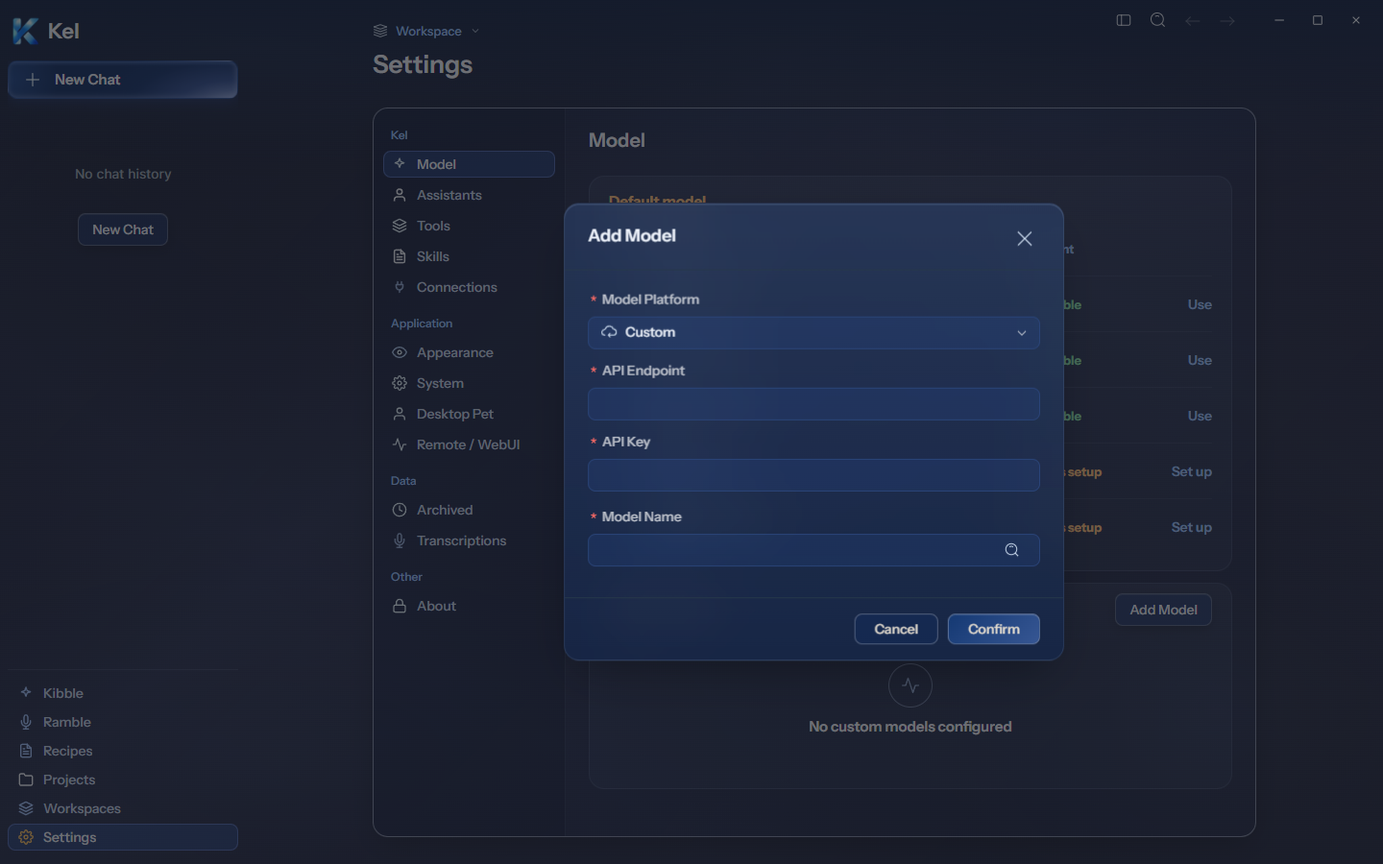
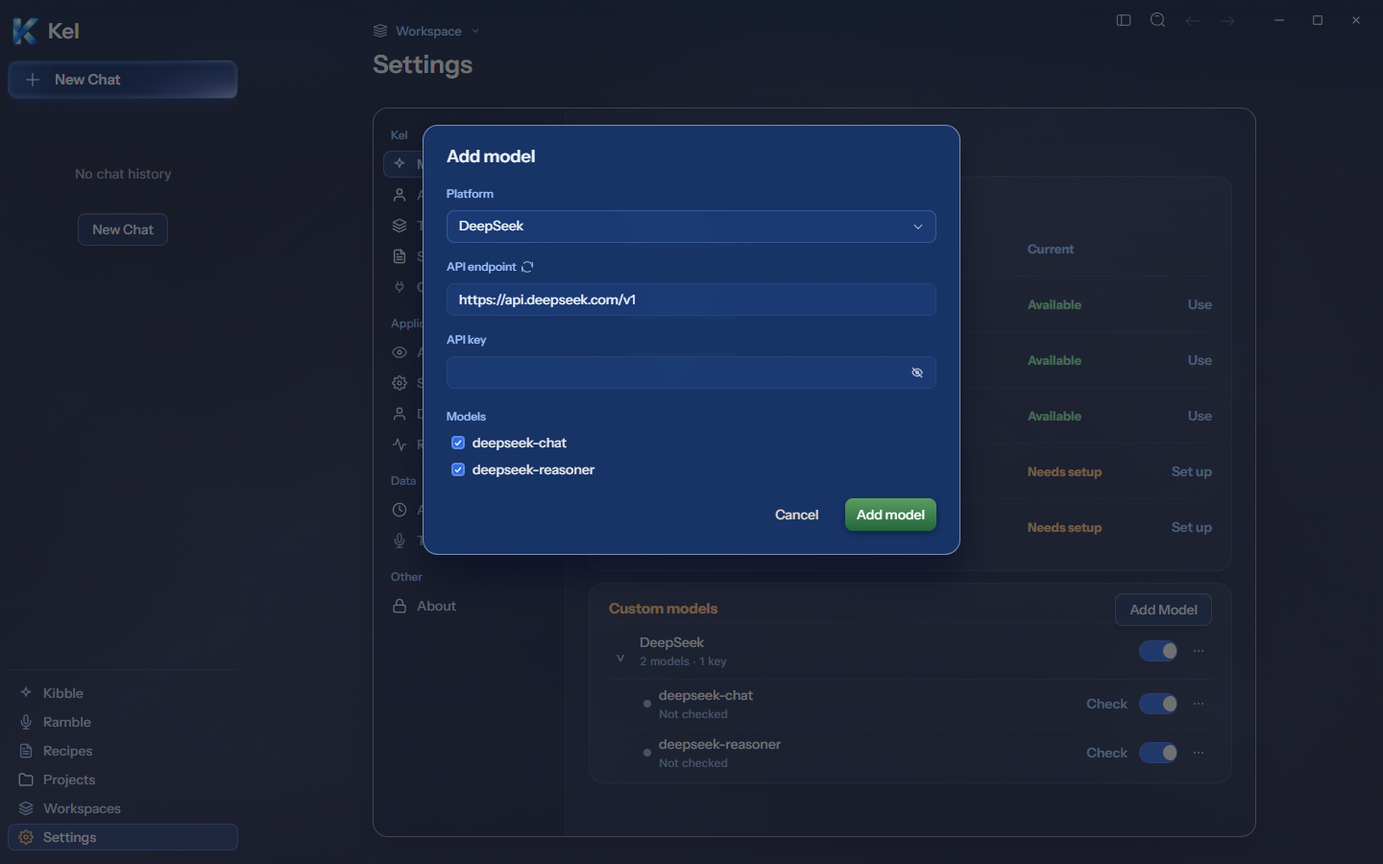
Implement desktop Model add flow and populated rows

Changed region(s): [[0.2812, 0.1244, 0.7812, 0.9022], [0.7812, 0.7467, 0.875, 0.9022], [0.5938, 0.84, 0.7188, 0.8711]]

diff --git a/desktop/packages/desktop/src/renderer/styles/kel-shell.css b/desktop/packages/desktop/src/renderer/styles/kel-shell.css
@@ -725,6 +725,32 @@ html[data-theme='dark'] body .arco-modal.kel-shell-model-modal { box-sizing: bor
 html[data-theme='dark'] .kel-shell-model-modal :is(.arco-input-wrapper,.arco-select-view) { background: rgba(47,107,224,.1) !important; border: 1px solid rgba(127,160,255,.28) !important; }
 html[data-theme='dark'] .kel-shell-model-modal .arco-input { background: transparent !important; }
 @media(min-width:1024px) { .arco-modal-wrapper:has(.kel-shell-model-modal) { box-sizing: border-box; padding-left: 256px; } }
+@media (min-width: 768px) {
+  .arco-modal-wrapper:has(.kel-shell-model-modal--source) { padding-left: 0; padding-top: 130px; }
+  .arco-modal-wrapper:has(.kel-shell-model-modal--source)::before,
+  .arco-modal-wrapper:has(.kel-shell-model-modal--source)::after { display: none; }
+  html[data-theme='dark'] body .arco-modal.kel-shell-model-modal--source {
+    width: 560px !important; max-width: calc(100vw - 32px);
+    border: 1px solid rgba(221,233,255,.5);
+    background: linear-gradient(rgba(159,195,255,.05),rgba(159,195,255,.05)),rgba(15,45,100,.9) !important;
+    box-shadow: 0 24px 32px rgba(5,13,36,.55);
+  }
+  .kel-shell-model-modal--source .aionui-modal-std-header { padding: 20px 24px 0; border-bottom: 0 !important; }
+  .kel-shell-model-modal--source .aionui-modal-std-header h3 { font: 600 18px/24px var(--kel-shell-heading); }
+  .kel-shell-model-modal--source .aionui-modal-std-body { padding: 16px 24px 0 !important; overflow: visible; }
+  .kel-shell-model-modal--source .arco-form-item { margin-bottom: 14px !important; }
+  .kel-shell-model-modal--source .arco-form-item-symbol { display: none; }
+  .kel-shell-model-modal--source .arco-form-label-item,
+  .kel-shell-model-modal--source .arco-form-label-item label { color: #9fc3ff; font: 500 12px/16px var(--kel-shell-heading); }
+  .kel-shell-model-modal--source .arco-checkbox-group { display: flex; flex-direction: column; align-items: flex-start; gap: 2px; }
+  .kel-shell-model-modal--source .arco-checkbox { min-height: 26px; color: #edf2fa; font: 500 14px/20px var(--kel-shell-heading); }
+  .kel-shell-model-modal--source .arco-checkbox-mask { border-radius: 4px; }
+  .kel-shell-model-modal--source .arco-checkbox-checked .arco-checkbox-mask { border-color: rgba(191,216,255,.3); background: #2f6be0; }
+  .kel-shell-model-modal--source .aionui-modal-std-footer { padding: 0 24px 24px; border-top: 0 !important; }
+  .kel-shell-model-modal--source .aionui-modal-std-footer > div { display: flex; justify-content: flex-end; gap: 10px; }
+  .kel-shell-model-modal--source .aionui-modal-std-footer .arco-btn { height: 34px; padding-inline: 12px; border: 0; background: transparent; box-shadow: none; }
+  .kel-shell-model-modal--source .aionui-modal-std-footer .arco-btn-primary { background: linear-gradient(#5a9d61,#24653d); color: #fff; box-shadow: 0 2px 8px rgba(5,13,36,.5); }
+}
 
 /* Typography authority: DS v2 Foundations / Type v2, confirmed by the user. */
 .kel-v2-shell { font: 400 16px/25px var(--kel-shell-body); }
@@ -1365,6 +1391,31 @@ html body .kel-v2-shell .kel-shell-chat-composer .sendbox-panel :is(.sendbox-mod
 .kel-v2-shell .kel-in-chat-frame__pane .kel-shell-custom-models .kel-shell-model-actions { position: absolute; right: 20px; top: 10px; }
 .kel-v2-shell .kel-in-chat-frame__pane .kel-shell-custom-models .py-40px { min-height: 150px; padding: 0; align-items: center; justify-content: center; }
 .kel-v2-shell .kel-in-chat-frame__pane .kel-shell-custom-models .py-40px h3 { font: 600 15px/20px var(--kel-shell-heading); color: var(--kel-text-1); }
+@media (min-width: 768px) {
+  .kel-v2-shell .kel-in-chat-frame__pane .kel-shell-custom-models:has(.kel-shell-model-provider) { gap: 4px; min-height: 0; padding-bottom: 6px; }
+  .kel-v2-shell .kel-shell-model-provider { border-top: 1px solid rgba(191,216,255,.08); }
+  .kel-v2-shell .kel-shell-model-provider-row,
+  .kel-v2-shell .kel-shell-model-entry-row { display: flex; align-items: center; gap: 8px; min-width: 0; border-bottom: 1px solid rgba(191,216,255,.08); }
+  .kel-v2-shell .kel-shell-model-provider-row { min-height: 58px; }
+  .kel-v2-shell .kel-shell-model-entry-row { min-height: 50px; padding-left: 36px; }
+  .kel-v2-shell .kel-shell-model-entry-row:last-child { border-bottom: 0; }
+  .kel-v2-shell .kel-shell-model-provider-expand { flex: 0 0 24px; padding: 0; border: 0; background: transparent; color: #9fc3ff; font: 500 20px/24px var(--kel-shell-heading); cursor: pointer; }
+  .kel-v2-shell .kel-shell-model-provider-label { display: flex; flex: 1; flex-direction: column; min-width: 0; gap: 2px; color: #edf2fa; font: 500 14px/20px var(--kel-shell-heading); }
+  .kel-v2-shell .kel-shell-model-provider-label > span { overflow: hidden; text-overflow: ellipsis; white-space: nowrap; }
+  .kel-v2-shell .kel-shell-model-provider-label small { overflow: hidden; color: #8fa9d6; font: 400 12px/16px var(--kel-shell-body); text-overflow: ellipsis; white-space: nowrap; }
+  .kel-v2-shell .kel-shell-model-health-dot { flex: 0 0 8px; width: 8px; height: 8px; border-radius: 50%; background: #8fa9d6; }
+  .kel-v2-shell .kel-shell-model-health-dot--healthy { background: #8fe3b4; }
+  .kel-v2-shell .kel-shell-model-health-dot--unhealthy { background: #f27d7d; }
+  .kel-v2-shell .kel-shell-model-check { flex: 0 0 auto; padding: 4px; border: 0; background: transparent; color: #9fc3ff; font: 600 14px/20px var(--kel-shell-heading); cursor: pointer; }
+  .kel-v2-shell .kel-shell-model-check:disabled { opacity: .5; cursor: wait; }
+  .kel-v2-shell .kel-shell-model-more { position: relative; flex: 0 0 28px; }
+  .kel-v2-shell .kel-shell-model-more summary { display: flex; align-items: center; justify-content: center; width: 28px; height: 28px; list-style: none; color: #9fc3ff; cursor: pointer; }
+  .kel-v2-shell .kel-shell-model-more summary::-webkit-details-marker { display: none; }
+  .kel-v2-shell .kel-shell-model-menu { position: absolute; z-index: 10; top: 30px; right: 0; display: flex; flex-direction: column; min-width: 140px; padding: 5px; border: 1px solid rgba(191,216,255,.22); border-radius: 8px; background: #172b56; box-shadow: 0 8px 20px rgba(5,13,36,.5); }
+  .kel-v2-shell .kel-shell-model-menu button { width: 100%; padding: 7px 9px; border: 0; border-radius: 5px; background: transparent; color: #edf2fa; text-align: left; font: 500 13px/18px var(--kel-shell-heading); cursor: pointer; }
+  .kel-v2-shell .kel-shell-model-menu button:hover { background: rgba(47,107,224,.18); }
+  .kel-v2-shell .kel-shell-model-provider .arco-switch { flex: 0 0 40px; width: 40px; height: 22px; }
+}
 .kel-v2-shell .kel-shell-model-empty-icon, .kel-v2-shell .kel-shell-archived-empty-icon { display: flex; align-items: center; justify-content: center; width: 44px; height: 44px; margin-bottom: 10px; border: 1px solid rgba(191,216,255,.45); border-radius: 50%; color: var(--kel-text-2); }
 .kel-v2-shell .kel-shell-archived-empty-icon img { width: 20px; height: 20px; }
 .kel-v2-shell .kel-in-chat-frame__pane .kel-shell-archive-actions:empty { display: none; }

diff --git a/desktop/packages/desktop/src/renderer/pages/settings/components/AddPlatformModal.tsx b/desktop/packages/desktop/src/renderer/pages/settings/components/AddPlatformModal.tsx
@@ -10,7 +10,7 @@ import { ipcBridge } from '@/common';
 import { uuid } from '@/common/utils';
 import { isGoogleApisHost } from '@/common/utils/urlValidation';
 import ModalHOC from '@/renderer/utils/ui/ModalHOC';
-import { Form, Input, Message, Select, Switch } from '@arco-design/web-react';
+import { Checkbox, Form, Input, Message, Select, Switch } from '@arco-design/web-react';
 import { Loading, PreviewOpen, Refresh, Search } from '@icon-park/react';
 import React, { useEffect, useMemo, useState } from 'react';
 import { useTranslation } from 'react-i18next';
@@ -204,7 +204,8 @@ const renderPlatformOption = (platform: PlatformConfig, t?: (key: string) => str
 const AddPlatformModal = ModalHOC<{
   onSubmit: (platform: IProvider) => void;
   deepLinkData?: DeepLinkAddProviderDetail;
-}>(({ modalProps, onSubmit, modalCtrl, deepLinkData }) => {
+  desktopSource?: boolean;
+}>(({ modalProps, onSubmit, modalCtrl, deepLinkData, desktopSource = false }) => {
   const [message, messageContext] = Message.useMessage();
   const { t } = useTranslation();
   const [form] = Form.useForm();
@@ -318,7 +319,12 @@ const AddPlatformModal = ModalHOC<{
         if (deepLinkData.base_url) form.setFieldValue('base_url', deepLinkData.base_url);
         if (deepLinkData.api_key) form.setFieldValue('api_key', deepLinkData.api_key);
       } else {
-        form.setFieldValue('platform', DEFAULT_PLATFORM_VALUE);
+        const initialPlatform = desktopSource ? 'DeepSeek' : DEFAULT_PLATFORM_VALUE;
+        form.setFieldValue('platform', initialPlatform);
+        if (desktopSource) {
+          form.setFieldValue('base_url', getPlatformByValue(initialPlatform)?.base_url ?? '');
+          form.setFieldValue('model', ['deepseek-chat', 'deepseek-reasoner']);
+        }
       }
     }
   }, [modalProps.visible, deepLinkData]);
@@ -403,16 +409,16 @@ const AddPlatformModal = ModalHOC<{
 
   return (
     <AionModal
-      className='kel-shell-model-modal'
+      className={`kel-shell-model-modal${desktopSource ? ' kel-shell-model-modal--source' : ''}`}
       contentStyle={{ background: 'transparent' }}
       variant='standard'
       visible={modalProps.visible}
       onCancel={modalCtrl.close}
-      header={{ title: t('settings.addModel'), showClose: true }}
-      style={{ width: 520, maxWidth: 'calc(100vw - 32px)' }}
+      header={{ title: desktopSource ? 'Add model' : t('settings.addModel'), showClose: !desktopSource }}
+      style={{ width: desktopSource ? 560 : 520, maxWidth: 'calc(100vw - 32px)' }}
       onOk={handleSubmit}
       confirmLoading={modalProps.confirmLoading}
-      okText={t('common.confirm')}
+      okText={desktopSource ? 'Add model' : t('common.confirm')}
       cancelText={t('common.cancel')}
     >
       {messageContext}
@@ -420,14 +426,14 @@ const AddPlatformModal = ModalHOC<{
         <Form form={form} layout='vertical' className='[&_.arco-form-item]:mb-12px [&_.arco-form-item:last-child]:mb-0'>
           {/* 模型平台选择（第一层）/ Model Platform Selection (first level) */}
           <Form.Item
-            initialValue={DEFAULT_PLATFORM_VALUE}
-            label={t('settings.modelPlatform')}
+            initialValue={desktopSource ? 'DeepSeek' : DEFAULT_PLATFORM_VALUE}
+            label={desktopSource ? 'Platform' : t('settings.modelPlatform')}
             field={'platform'}
             required
             rules={[{ required: true, message: t('settings.modelPlatformRequired', 'Choose a model platform.') }]}
           >
             <Select
-              showSearch
+              showSearch={!desktopSource}
               filterOption={(inputValue, option) => {
                 const optionValue = (option as React.ReactElement<{ value?: string }>)?.props?.value;
                 const plat = MODEL_PLATFORMS.find((p) => p.value === optionValue);
@@ -449,6 +455,7 @@ const AddPlatformModal = ModalHOC<{
                 const optionValue = (option as { value?: string })?.value;
                 const plat = MODEL_PLATFORMS.find((p) => p.value === optionValue);
                 if (!plat) return optionValue;
+                if (desktopSource) return plat.i18nKey ? t(plat.i18nKey) : plat.name;
                 return renderPlatformOption(plat, t);
               }}
             >
@@ -467,7 +474,7 @@ const AddPlatformModal = ModalHOC<{
             hidden={isBedrock}
             label={
               <span className='inline-flex items-center gap-4px'>
-                {t('settings.apiEndpoint', 'API 请求地址')}
+                {desktopSource ? 'API endpoint' : t('settings.apiEndpoint', 'API 请求地址')}
                 {selectedPlatform?.base_url && !isFullUrl && (
                   <button
                     type='button'
@@ -523,7 +530,7 @@ const AddPlatformModal = ModalHOC<{
           {/* API Key */}
           <Form.Item
             hidden={isBedrock}
-            label={t('settings.apiKey')}
+            label={desktopSource ? 'API key' : t('settings.apiKey')}
             required={!isBedrock}
             rules={[{ required: !isBedrock, message: t('settings.apiKeyRequired', 'Enter an API key.') }]}
             field={'api_key'}
@@ -542,7 +549,7 @@ const AddPlatformModal = ModalHOC<{
               </div>
             }
           >
-            <Input
+            <Input.Password visibilityToggle
               onBlur={() => {
                 void modelListState.mutate();
               }}
@@ -622,7 +629,7 @@ const AddPlatformModal = ModalHOC<{
 
           {/* 模型选择 / Model Selection */}
           <Form.Item
-            label={t('settings.modelName')}
+            label={desktopSource && platformValue === 'DeepSeek' ? 'Models' : t('settings.modelName')}
             field={'model'}
             required
             rules={[{ required: true, message: t('settings.modelNameRequired', 'Choose or enter a model name.') }]}
@@ -635,7 +642,13 @@ const AddPlatformModal = ModalHOC<{
                   : undefined
             }
           >
-            <Select
+            {desktopSource && platformValue === 'DeepSeek' ? <Checkbox.Group
+              direction='vertical'
+              options={[
+                { label: 'deepseek-chat', value: 'deepseek-chat' },
+                { label: 'deepseek-reasoner', value: 'deepseek-reasoner' },
+              ]}
+            /> : <Select
               mode='multiple'
               loading={!isFullUrl && modelListState.isLoading}
               showSearch
@@ -715,7 +728,7 @@ const AddPlatformModal = ModalHOC<{
                 )
               }
               options={isFullUrl ? [] : modelListState.data?.models || []}
-            />
+            />}
           </Form.Item>
 
           {/* New API 协议选择 / New API Protocol Selection */}

diff --git a/desktop/packages/desktop/src/renderer/components/settings/SettingsModal/contents/ModelModalContent.tsx b/desktop/packages/desktop/src/renderer/components/settings/SettingsModal/contents/ModelModalContent.tsx
@@ -15,6 +15,7 @@ import {
   Heartbeat,
   Info,
   Minus,
+  More,
   Plus,
   PreviewClose,
   PreviewOpen,
@@ -111,6 +112,12 @@ const ModelModalContent: React.FC = () => {
   const { t, i18n } = useTranslation();
   const viewMode = useSettingsViewMode();
   const isPageMode = viewMode === 'page';
+  const [desktopLayout, setDesktopLayout] = useState(() => typeof window !== 'undefined' && window.innerWidth >= 768);
+  useEffect(() => {
+    const onResize = () => setDesktopLayout(window.innerWidth >= 768);
+    window.addEventListener('resize', onResize);
+    return () => window.removeEventListener('resize', onResize);
+  }, []);
   const [collapseKey, setCollapseKey] = useState<Record<string, boolean>>({});
   const [healthCheckLoading, setHealthCheckLoading] = useState<Record<string, boolean>>({});
   const { data, mutate } = useProvidersQuery();
@@ -170,6 +177,26 @@ const ModelModalContent: React.FC = () => {
         console.error('Failed to delete provider:', error);
         message.error(t('settings.saveModelConfigFailed'));
       });
+  };
+
+  const removeModel = (platform: IProvider, model: string) => {
+    const models = platform.models.filter((item: string) => item !== model);
+    const protocols = { ...platform.model_protocols };
+    const enabled = { ...platform.model_enabled };
+    const health = { ...platform.model_health };
+    const settings = { ...platform.model_settings };
+    delete protocols[model];
+    delete enabled[model];
+    delete health[model];
+    delete settings[model];
+    updatePlatform({
+      ...platform,
+      models,
+      model_protocols: Object.keys(protocols).length ? protocols : undefined,
+      model_enabled: Object.keys(enabled).length ? enabled : undefined,
+      model_health: Object.keys(health).length ? health : undefined,
+      model_settings: settings,
+    }, () => {});
   };
 
   // 切换供应商启用状态（全选 ↔ 全不选）
@@ -307,6 +334,7 @@ const ModelModalContent: React.FC = () => {
   };
 
   const [addPlatformModalCtrl, addPlatformModalContext] = AddPlatformModal.useModal({
+    desktopSource: isPageMode && desktopLayout,
     onSubmit(platform) {
       updatePlatform(platform, () => {
         setCollapseKey((prev) => ({ ...prev, [platform.id]: true }));
@@ -401,8 +429,38 @@ const ModelModalContent: React.FC = () => {
           <div className='space-y-16px'>
             {(data || []).map((platform: IProvider) => {
               const key = platform.id;
-              const isExpanded = collapseKey[platform.id] ?? false;
+              const isExpanded = collapseKey[platform.id] ?? (isPageMode && desktopLayout);
               return (
+                isPageMode && desktopLayout ? <section className='kel-shell-model-provider' key={key}>
+                  <div className='kel-shell-model-provider-row'>
+                    <button type='button' className='kel-shell-model-provider-expand' aria-expanded={isExpanded} aria-label={`${isExpanded ? 'Collapse' : 'Expand'} ${platform.name}`} onClick={() => setCollapseKey(prev => ({ ...prev, [platform.id]: !isExpanded }))}>{isExpanded ? '⌄' : '›'}</button>
+                    <div className='kel-shell-model-provider-label'><span>{platform.name}</span><small>{(platform.models ?? []).length} models · {getApiKeyCount(platform.api_key)} key</small></div>
+                    <Switch size='small' checked={getProviderState(platform).checked} onChange={() => toggleProviderEnabled(platform)} aria-label={`Enable ${platform.name}`} />
+                    <details className='kel-shell-model-more'><summary aria-label={`${platform.name} options`}><More size='16' /></summary><div className='kel-shell-model-menu'>
+                      <button type='button' onClick={() => addModelModalCtrl.open({ data: platform })}>Add model</button>
+                      <button type='button' onClick={() => editModalCtrl.open({ data: platform })}>Edit provider</button>
+                      <Popconfirm title={t('settings.deleteAllModelConfirm')} onOk={() => removePlatform(platform.id)}><button type='button'>Delete provider</button></Popconfirm>
+                    </div></details>
+                  </div>
+                  {isExpanded && (platform.models ?? []).map((model: string) => {
+                    const health = platform.model_health?.[model];
+                    const healthText = health?.status === 'healthy'
+                      ? `Healthy${health.latency ? ` · ${health.latency} ms` : ''}`
+                      : health?.status === 'unhealthy'
+                        ? `Check failed${health.error ? ` · ${health.error}` : ''}`
+                        : 'Not checked';
+                    return <div className='kel-shell-model-entry-row' key={model}>
+                      <span className={`kel-shell-model-health-dot kel-shell-model-health-dot--${health?.status ?? 'unknown'}`} aria-hidden='true' />
+                      <div className='kel-shell-model-provider-label'><span>{model}</span><small title={healthText}>{healthText}</small></div>
+                      <button type='button' className='kel-shell-model-check' onClick={() => performHealthCheck(platform, model)} disabled={!!healthCheckLoading[`${platform.id}-${model}`]}>{healthCheckLoading[`${platform.id}-${model}`] ? 'Checking' : 'Check'}</button>
+                      <Switch size='small' checked={isModelEnabled(platform, model)} onChange={(checked) => toggleModelEnabled(platform, model, checked)} aria-label={`Enable ${model}`} />
+                      <details className='kel-shell-model-more'><summary aria-label={`${model} options`}><More size='16' /></summary><div className='kel-shell-model-menu'>
+                        <button type='button' onClick={() => addModelModalCtrl.open({ data: platform, model })}>Configure</button>
+                        <Popconfirm title={t('settings.deleteModelConfirm')} onOk={() => removeModel(platform, model)}><button type='button'>Delete model</button></Popconfirm>
+                      </div></details>
+                    </div>;
+                  })}
+                </section> :
                 <Collapse
                   activeKey={isExpanded ? ['image-generation'] : []}
                   onChange={(_, activeKeys) => {

diff --git a/docs/v2/MARATHON_STATE.md b/docs/v2/MARATHON_STATE.md
@@ -12,10 +12,10 @@ setup_commit: 47eb3b49322a7cfbe85bbee7a0674c77037b127f   # V2 program initializa
 remote: https://github.com/BeardedBats/Kel
 
 phase: V2-19                # bounded product and Figma regression; release candidate still pending
-next_item: Complete desktop implementation first. Next match desktop Model Add model overlay 311:2730 and populated custom-model rows using isolated configuration. Then inspect populated Work, Permissions, Projects, and Scheduled tasks with bounded engine states, plus remaining desktop frames. Diagnostics maintenance remains open until matching runtime operations exist. Keep mobile paused. Update canonical App for Nick to test after desktop completion, then resume mobile UI/UX.
+next_item: Complete desktop implementation first. Next implement current desktop Settings Assistants 311:3140 and Skills 311:3536 as one related batch. Then inspect populated Work, Permissions, Projects, and Scheduled tasks with bounded engine states, plus remaining desktop frames. Diagnostics maintenance remains open until matching runtime operations exist. Keep mobile paused. Update canonical App for Nick to test after desktop completion, then resume mobile UI/UX.
 
 status: partial
-# Nick prioritised complete desktop implementation on 2026-09-25. He will test desktop while mobile UI/UX implementation continues. Desktop Recipes list, Preview, and Run are implemented with isolated package evidence. Desktop Home, Work empty, Activity empty/running, Permissions empty, Projects empty, Scheduled tasks list/detail, Connections empty/populated/credential, Providers, Diagnostics, and Model have current scoped package checks. Activity's separator-space correction was included in the later Projects package. Scheduled task detail has real toggle/pause/edit/confirmation checks and synthetic History layout. Scheduled list controls open the real edit dialog. Populated Work, Permissions, Projects, Scheduled tasks, and custom Model configuration remain open. Providers has three truthful readiness rows; a real model reply is untested. Diagnostics maintenance controls remain open because matching runtime operations do not exist. Connections mutating action confirmation is DOM-tested but has no packaged state because the engine catalogs read actions only. Package by coherent desktop feature groups instead of per Figma frame. Canonical App packages source 8c67121; promotion awaits desktop completion. Current Tools, selected Chat states, Transcriptions, and selected mobile states have scoped disposable package checks. Older visual results are historical. See evidence/figma-full-audit/FIGMA_REVISION_2026-09-25.md and its linked scoped records.
+# Nick prioritised complete desktop implementation on 2026-09-25. He will test desktop while mobile UI/UX implementation continues. Desktop Recipes list, Preview, and Run are implemented with isolated package evidence. Desktop Home, Work empty, Activity empty/running, Permissions empty, Projects empty, Scheduled tasks list/detail, Connections empty/populated/credential, Providers, Diagnostics, and Model have current scoped package checks. Activity's separator-space correction was included in the later Projects package. Scheduled task detail has real toggle/pause/edit/confirmation checks and synthetic History layout. Scheduled list controls open the real edit dialog. Populated Work, Permissions, Projects, and Scheduled tasks remain open. Model now has a compact Add model flow and populated custom-model rows package-checked with isolated fake configuration. Providers has three truthful readiness rows; a real model reply is untested. Diagnostics maintenance controls remain open because matching runtime operations do not exist. Connections mutating action confirmation is DOM-tested but has no packaged state because the engine catalogs read actions only. Package by coherent desktop feature groups instead of per Figma frame. Canonical App packages source 8c67121; promotion awaits desktop completion. Current Tools, selected Chat states, Transcriptions, and selected mobile states have scoped disposable package checks. Older visual results are historical. See evidence/figma-full-audit/FIGMA_REVISION_2026-09-25.md and its linked scoped records.
 # V2-04 (the Connection Framework) is closed; its two open needs are carried as V2-04a/V2-04b in FEATURE_LEDGER.md.
 
 deferred:

diff --git a/docs/v2/KNOWN_LIMITATIONS.md b/docs/v2/KNOWN_LIMITATIONS.md
@@ -4,7 +4,7 @@
 
 [Work empty](evidence/figma-full-audit/DESKTOP_WORK_CURRENT_REVISION.md) matches Figma's three card bounds at 1440 and 800px. Populated Work and its actions remain open. [Scheduled tasks list](evidence/figma-full-audit/DESKTOP_SCHEDULED_LIST_CURRENT_REVISION.md) uses real saved execution modes, so it does not show Figma's illustrative “Queue” as an execution mode. Its setting controls open the edit dialog rather than an inline menu. [Scheduled task detail](evidence/figma-full-audit/DESKTOP_SCHEDULED_TASK_DETAIL_CURRENT_REVISION.md) matches the Details card dimensions and has tested controls. History rows were synthetic, not real runs. The scheduler has no project label or per-run outcome record, so the screen shows a dash for Project and only displays the latest task status on the latest run. The canonical installed App still packages `8c67121`.
 [Desktop Activity](evidence/figma-full-audit/DESKTOP_ACTIVITY_CURRENT_REVISION.md) now has an isolated running-job package check. No model worker executed, and waiting and finished outcomes remain open. The final separator-space CSS correction was packaged later but the running row was not recaptured. [Desktop Permissions](evidence/figma-full-audit/DESKTOP_PERMISSIONS_CURRENT_REVISION.md) covers empty cards only; populated grants, requests, and Run check remain open.
-[Desktop Projects](evidence/figma-full-audit/DESKTOP_PROJECTS_CURRENT_REVISION.md) now matches the empty three-card geometry. Populated knowledge, map sections, and recipes remain open. [Desktop Providers](evidence/figma-full-audit/DESKTOP_PROVIDERS_CURRENT_REVISION.md) has real catalog rows and three honest readiness rows; the default model has not answered a live test. [Desktop Model](evidence/figma-full-audit/DESKTOP_MODEL_CURRENT_REVISION.md) now has Figma-style default-model rows with real selection and setup actions. Its Add model dialog and populated custom-model state remain open. [Desktop Diagnostics](evidence/figma-full-audit/DESKTOP_DIAGNOSTICS_CURRENT_REVISION.md) has live health and performance values. Clear caches and Restart runtime remain disabled because the existing operations do not match their stated behavior. The canonical installed App still packages `8c67121`.
+[Desktop Projects](evidence/figma-full-audit/DESKTOP_PROJECTS_CURRENT_REVISION.md) now matches the empty three-card geometry. Populated knowledge, map sections, and recipes remain open. [Desktop Providers](evidence/figma-full-audit/DESKTOP_PROVIDERS_CURRENT_REVISION.md) has real catalog rows and three honest readiness rows; the default model has not answered a live test. [Desktop Model](evidence/figma-full-audit/DESKTOP_MODEL_CURRENT_REVISION.md) has Figma-style default and populated custom-model rows, real actions, and a compact Add model dialog. The isolated key was fake and its loopback health check failed. A successful real provider check remains open. [Desktop Diagnostics](evidence/figma-full-audit/DESKTOP_DIAGNOSTICS_CURRENT_REVISION.md) has live health and performance values. Clear caches and Restart runtime remain disabled because the existing operations do not match their stated behavior. The canonical installed App still packages `8c67121`.
 
 ## Desktop Home and Connections (2026-09-25)
 

diff --git a/docs/v2/TEST_EVIDENCE.md b/docs/v2/TEST_EVIDENCE.md
@@ -2,7 +2,9 @@
 
 ## Desktop Providers and Model (2026-09-25)
 
-[Providers `189:3098`](evidence/figma-full-audit/DESKTOP_PROVIDERS_CURRENT_REVISION.md) now shows three truthful readiness rows in an isolated package. Its first card measured 670×171 at 1440px and 388×171 at 800px. The read-only preflight selected Claude without requesting a model reply. [Model `311:2239`](evidence/figma-full-audit/DESKTOP_MODEL_CURRENT_REVISION.md) now uses Figma's row structure with the real six-option catalog. Its default-model card measured x613/y183, 670×412 at 1440px and x371/y179, 388×412 at 800px. Selecting Claude Sonnet 4.6, restoring Automatic, and opening Providers through Set up worked with isolated data. The existing Add Model dialog opened at both widths; its Figma-specific layout remains open. Neither page overflowed or reported a renderer error. TypeScript, the desktop suite **54 files / 401 tests**, Electron Vite, and Windows packaging passed. Canonical App and Data were untouched.
+[Providers `189:3098`](evidence/figma-full-audit/DESKTOP_PROVIDERS_CURRENT_REVISION.md) now shows three truthful readiness rows in an isolated package. Its first card measured 670×171 at 1440px and 388×171 at 800px. The read-only preflight selected Claude without requesting a model reply. [Model `311:2239`](evidence/figma-full-audit/DESKTOP_MODEL_CURRENT_REVISION.md) now uses Figma's row structure with the real six-option catalog. Its default-model card measured x613/y183, 670×412 at 1440px and x371/y179, 388×412 at 800px. Selecting Claude Sonnet 4.6, restoring Automatic, and opening Providers through Set up worked with isolated data. Neither page overflowed or reported a renderer error. TypeScript, the desktop suite **54 files / 401 tests**, Electron Vite, and Windows packaging passed. Canonical App and Data were untouched.
+
+[Model Add model `311:2730` and populated custom rows](evidence/figma-full-audit/DESKTOP_MODEL_CURRENT_REVISION.md) were implemented as one desktop batch. A disposable package placed the 560×448 dialog at x440/y130 at 1440px; it fit 800px. A fake key and loopback endpoint saved two models. The populated card measured 670×209 at 1440px and 388×209 at 800px. Provider and model switches toggled off and on; the options menu opened. Check attempted only loopback and recorded a failed result. No overflow or renderer error appeared. TypeScript, **54 files / 401 tests**, Electron Vite, and Windows packaging passed. Canonical App and Data were untouched.
 
 ## Desktop Work, Activity, and scheduled tasks (2026-09-25)
 

diff --git a/docs/v2/IMPLEMENTATION_STATUS.md b/docs/v2/IMPLEMENTATION_STATUS.md
@@ -6,7 +6,7 @@ What is actually built, as distinct from what is planned. Updated as phases land
 
 The canonical source now has a Kel-style scheduled task detail with real Pause/Resume, Edit, Run now, skip protection, delete confirmation, and History actions. The scheduled list has Figma-style Assistant, Model, and Execution mode controls that open the real edit dialog. Activity uses Figma's empty “All clear” copy. Disposable Windows package checks covered these states at 1440 and 800px. Populated Work, waiting and finished Activity, live scheduled History, and many remaining desktop frames still need implementation and verification. The canonical installed App remains on source `8c67121` until the desktop completion install.
 Activity's desktop running row now shows a stored milestone beside its job name, a green progress dot, and a Running label. A bounded engine fixture passed packaged checks at 1440 and 800px. Permissions empty cards also match the current Figma frame. Waiting and finished Activity states, populated Permissions, populated Work, and many desktop frames remain open.
-The Projects empty map card now matches Figma's 85px height while retaining Refresh map on hover or keyboard focus. Providers' readiness card now shows three truthful rows, including an explicitly untested model reply. Model has Figma's default-model row structure and real Use, Automatic, and Set up actions. Isolated package checks covered both at 1440 and 800px. Populated custom models and Add model overlay parity remain open. Diagnostics' cache/restart controls remain disabled because the runtime does not support their stated behavior safely.
+The Projects empty map card now matches Figma's 85px height while retaining Refresh map on hover or keyboard focus. Providers' readiness card now shows three truthful rows, including an explicitly untested model reply. Model has Figma's default-model row structure and real Use, Automatic, and Set up actions. The Add model dialog has the compact Figma field order and saves multiple models. Populated custom-model rows expose provider and model toggles, Check, and options actions. Isolated package checks covered these at 1440 and 800px. A loopback check failed as expected; a healthy remote model remains unverified. Diagnostics' cache/restart controls remain disabled because the runtime does not support their stated behavior safely.
 
 ## Current canonical state (2026-09-24)
 

diff --git a/docs/v2/evidence/figma-full-audit/DESKTOP_MODEL_CURRENT_REVISION.md b/docs/v2/evidence/figma-full-audit/DESKTOP_MODEL_CURRENT_REVISION.md
@@ -4,4 +4,6 @@ Current Figma [Model `311:2239`](https://www.figma.com/design/BlpVvZGuc9j9HhxUoj
 
 An isolated Windows package showed the first card at x613/y183, 670×412 at [1440px](DESKTOP_MODEL_PACKAGE_1440.png) and x371/y179, 388×412 at [800px](DESKTOP_MODEL_PACKAGE_800.png). It showed no horizontal overflow or renderer error. Selecting Claude Sonnet 4.6 set the default, Automatic restored it, and DeepSeek Chat's Set up action opened Providers. These checks used only isolated data. The canonical App and Data were untouched.
 
-The 800px column-width repair was verified in the final capture. Populated custom-model rows, their checks and toggles, and the Add model overlay remain open. The existing Add Model dialog was opened at [1440px](DESKTOP_MODEL_ADD_PACKAGE_1440.png) and [800px](DESKTOP_MODEL_ADD_PACKAGE_800.png): it offers the real provider setup form but differs from Figma's compact DeepSeek example. No live credential or model call was used.
+The 800px column-width repair was verified in the final capture. The Add model dialog now follows Figma's compact Platform, API endpoint, API key, and Models flow at [1440px](DESKTOP_MODEL_ADD_PACKAGE_1440.png) and [800px](DESKTOP_MODEL_ADD_PACKAGE_800.png). It measured x440/y130, 560×448 at 1440px; Figma shows 560×440. DeepSeek starts with two checked model names. Its API key stays empty until the user enters one, and Kel does not claim a successful key check. The functional preset endpoint keeps `/v1`, which differs from Figma's illustrative URL.
+
+A disposable DeepSeek provider with a fake key and loopback endpoint exercised the save path. The [1440px](DESKTOP_MODEL_POPULATED_PACKAGE_1440.png) and [800px](DESKTOP_MODEL_POPULATED_PACKAGE_800.png) captures show the real expanded provider and two models. The provider panel measured 670×209 and 388×209. Its provider and model switches changed off and back on; the options menu opened. A model Check attempted only the loopback endpoint and recorded a truthful failed status. The provider was then deleted through its confirmation, and a fresh package launch returned to the empty state. Neither width overflowed or reported a renderer error. A successful provider check and real credential remain unverified. Canonical App and Data were untouched.

diff --git a/docs/v2/evidence/figma-full-audit/FIGMA_REVISION_2026-09-25.md b/docs/v2/evidence/figma-full-audit/FIGMA_REVISION_2026-09-25.md
@@ -56,8 +56,8 @@
 | `269:501` | Kel / Connections — Add a service | `/connections` | Six main fields in two columns; extra options and taller card remain. [Scoped evidence](DESKTOP_CONNECTIONS_CURRENT_REVISION.md). | READ |
 | `269:971` | Kel / Connections — Add credential | `/connections` | Inline editor captured in an isolated package; secure-store value never submitted. [Scoped evidence](DESKTOP_CONNECTIONS_CURRENT_REVISION.md). | READ |
 | `269:1419` | Kel / Connections — Run an action | `/connections` | Confirmation placement tested in DOM; no real mutating catalog action exists for package capture. [Scoped evidence](DESKTOP_CONNECTIONS_CURRENT_REVISION.md). | READ |
-| `311:2239` | Kel / Settings — Model | `/settings/model` | Default-model rows and real actions package-checked at 1440/800; populated custom models remain open. [Scoped evidence](DESKTOP_MODEL_CURRENT_REVISION.md). | READ |
-| `311:2730` | Kel / Settings — Model — Add model | `/settings/model` | Current frame read; existing functional form captured, but its layout differs from Figma. [Scoped evidence](DESKTOP_MODEL_CURRENT_REVISION.md). | READ |
+| `311:2239` | Kel / Settings — Model | `/settings/model` | Default and populated custom-model rows with real actions package-checked at 1440/800; healthy remote response remains open. [Scoped evidence](DESKTOP_MODEL_CURRENT_REVISION.md). | READ |
+| `311:2730` | Kel / Settings — Model — Add model | `/settings/model` | Compact multi-model dialog implemented and package-checked; blank credential differs from Figma's successful sample. [Scoped evidence](DESKTOP_MODEL_CURRENT_REVISION.md). | READ |
 | `311:3140` | Kel / Settings — Assistants | `/settings/assistants` | New or replaced node; prior pair absent. | PENDING |
 | `311:3536` | Kel / Settings — Skills | `/settings/skills` | New or replaced node; prior pair absent. | PENDING |
 | `313:2441` | Kel / Settings — Tools | `/settings/tools` | Replaces `188:1956`; four MCP status rows and image-off card confirmed. | READ |
